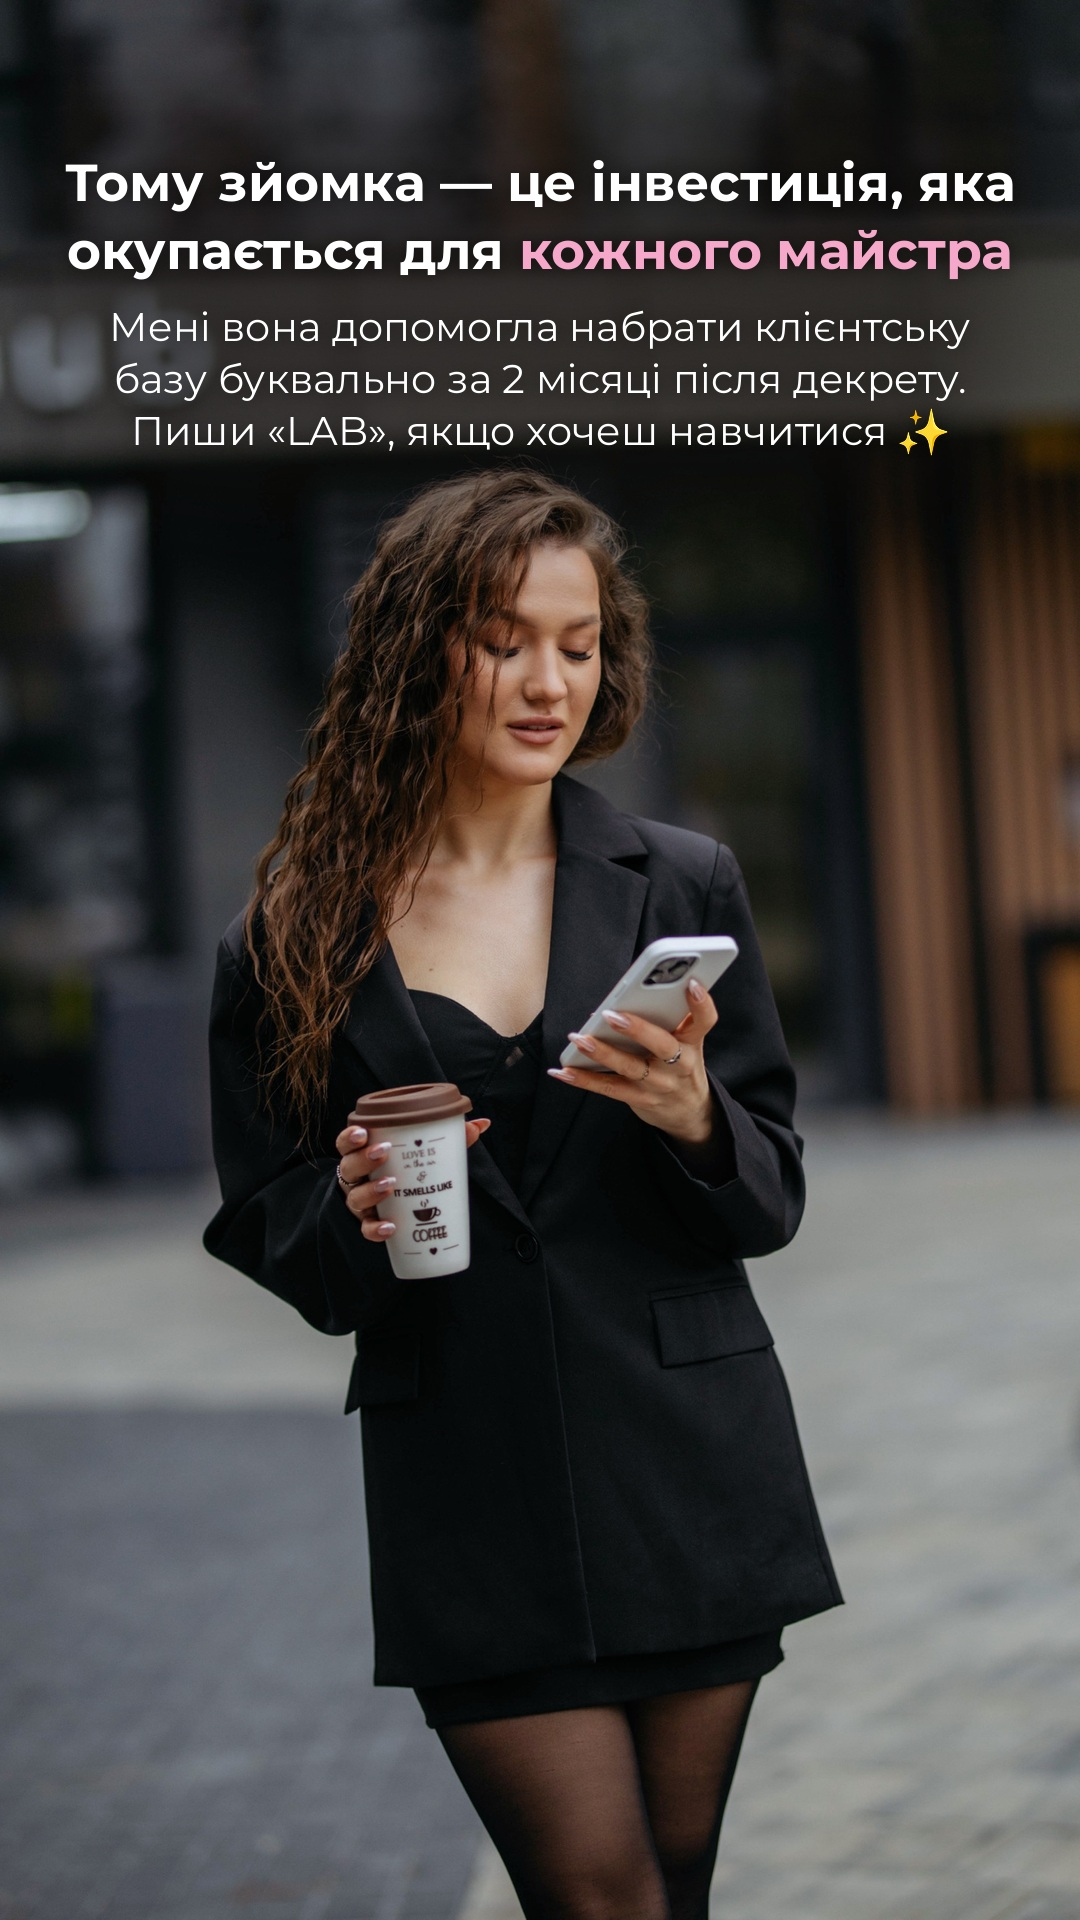
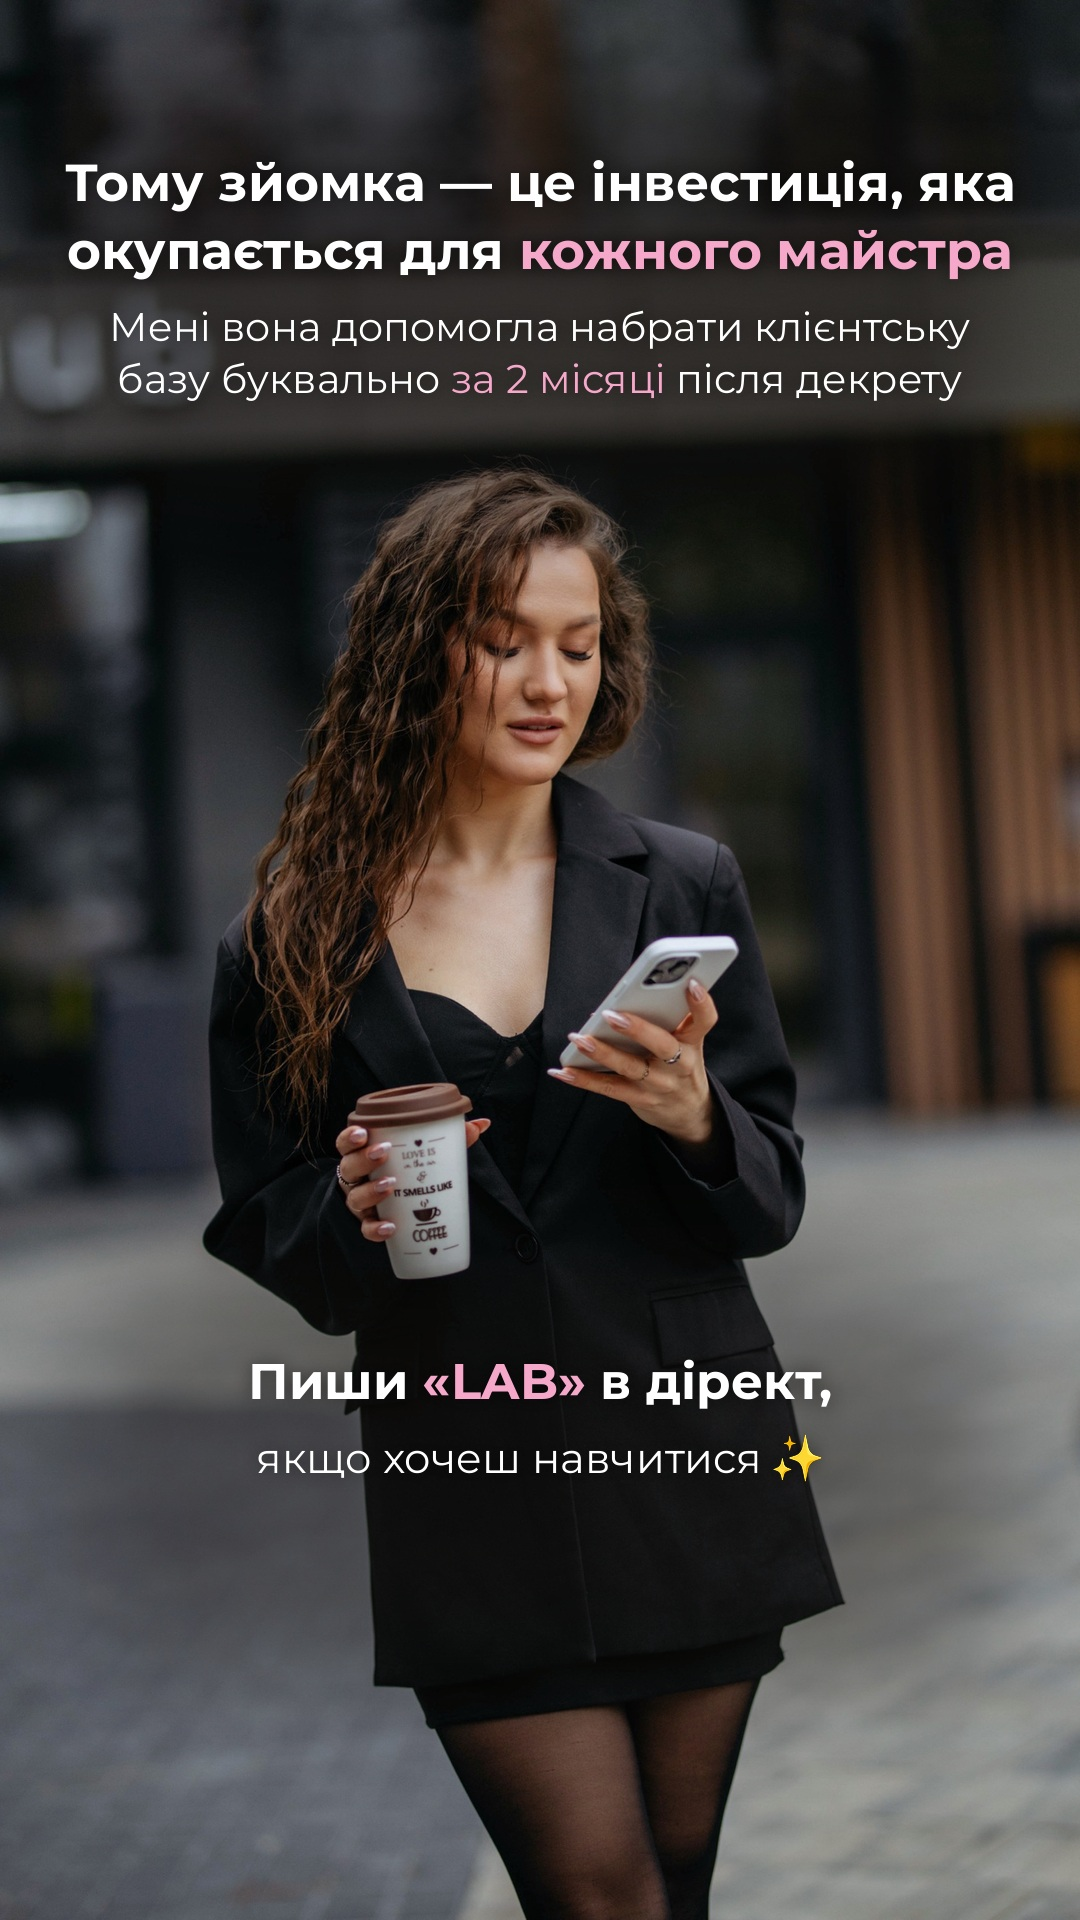
Цінність зйомки: заклик «Пиши LAB в дірект» під стаканом
Claude-Session: https://claude.ai/code/session_0191xVL2hi5vHUvM1ix6pauC

diff --git a/stories/tsinnist_zyomky/build.py b/stories/tsinnist_zyomky/build.py
@@ -27,5 +27,6 @@ e=emoji('🤔',46); c.paste(e,(int(W/2+d.textlength('клієнтка швидш
 c.paste(cc(f'{U}/5f9c00cb-image.jpg',gw,gh,0.3),(x0,1110)); c.paste(cc(f'{U}/f1d0cfee-image.jpg',gw,gh,0.55),(x0+gw+gap,1110))
 im=c; save(im,2)
 im,_=ctext(fit(f'{U}/27af2422-image.jpg'),1340,'Продаючі кадри приводять клієнтів','Красиве фото — це перше враження про твою роботу ще *до запису*',None,shade=130,bmw=650); save(im,3)
-im,_=ctext(fit(f'{U}/10fe640c-image.jpg'),150,'Тому зйомка — це інвестиція, яка окупається для *кожного майстра*','Мені вона допомогла набрати клієнтську базу буквально за 2 місяці після декрету. Пиши «LAB», якщо хочеш навчитися','✨',shade=150,bsz=52,rsz=40,mw=1010); save(im,5)
+im,_=ctext(fit(f'{U}/10fe640c-image.jpg'),150,'Тому зйомка — це інвестиція, яка окупається для *кожного майстра*','Мені вона допомогла набрати клієнтську базу буквально *за 2 місяці* після декрету',None,shade=150,bsz=52,rsz=40,mw=1010)
+im,_=ctext(im,1350,'Пиши *«LAB»* в дірект,','якщо хочеш навчитися','✨',shade=110,bsz=50,rsz=42); save(im,5)
 print('ok')
